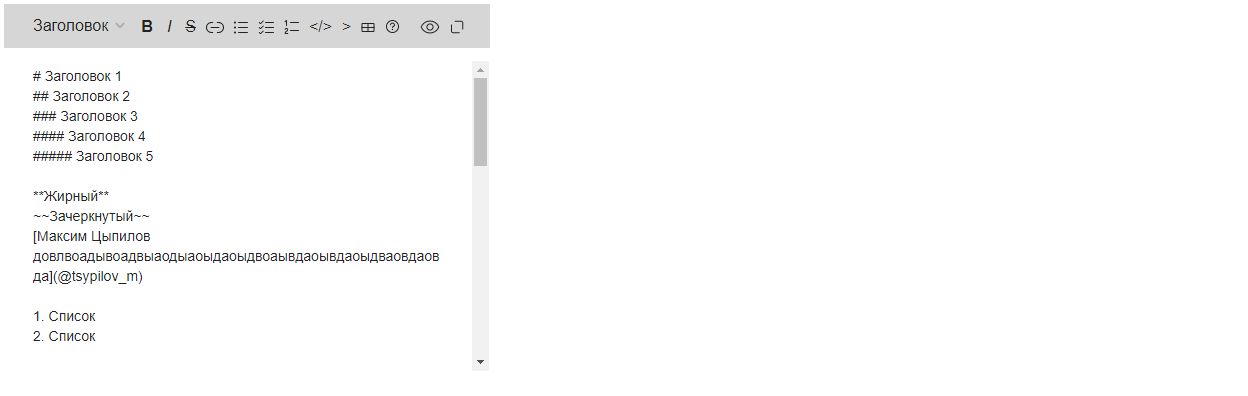
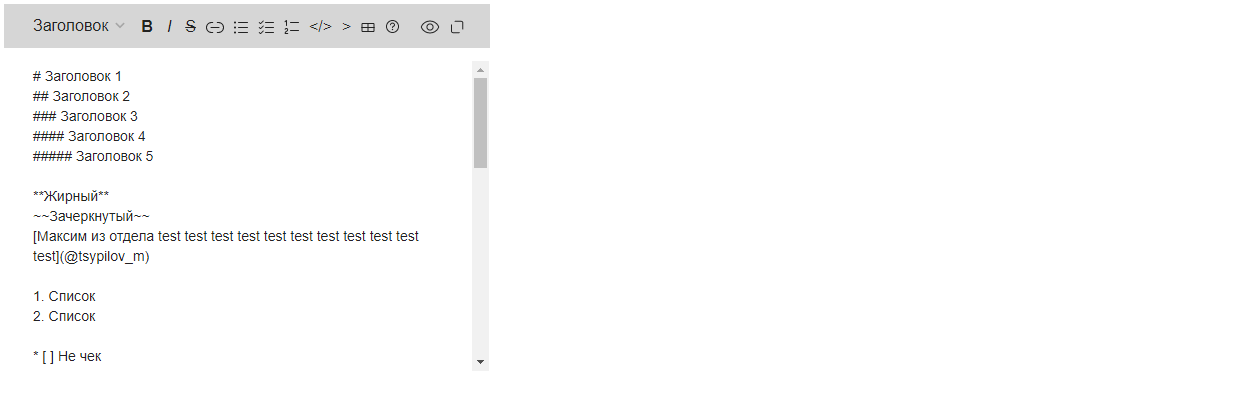
Mocks

Changed region(s): [[0.0312, 0.6364, 0.375, 0.7576], [0.0625, 0.5758, 0.3438, 0.6061], [0.0312, 0.8182, 0.0938, 0.9091]]

diff --git a/src/Markdown/__mocks__/markdown.mock.ts b/src/Markdown/__mocks__/markdown.mock.ts
@@ -6,7 +6,7 @@ export const allVariantsMarkdownMock = `# Заголовок 1
 
 **Жирный**
 ~~Зачеркнутый~~
-[Максим Цыпилов довлвоадывоадвыаодыаоыдаоыдвоаывдаоывдаоыдваовдаовда](@tsypilov_m)
+[Максим из отдела test test test test test test test test test test test](@tsypilov_m)
 
 1. Список
 2. Список
@@ -35,7 +35,7 @@ export const allVariantsMarkdownMock = `# Заголовок 1
 линия
 линия
 
-[text.txt lkjlkjlkjlkjlkjlk;jlkj;klj;j;kkj;j;j;ljjhbhvhcxzxhcjvbnmnbcvkb](/api/file/download/)
+[text.txt test test test test test test test test test test test](/api/file/download/)
 
 ![img](https://s.kontur.ru/common-v2/logos/logo-matrix-32.svg)
 
